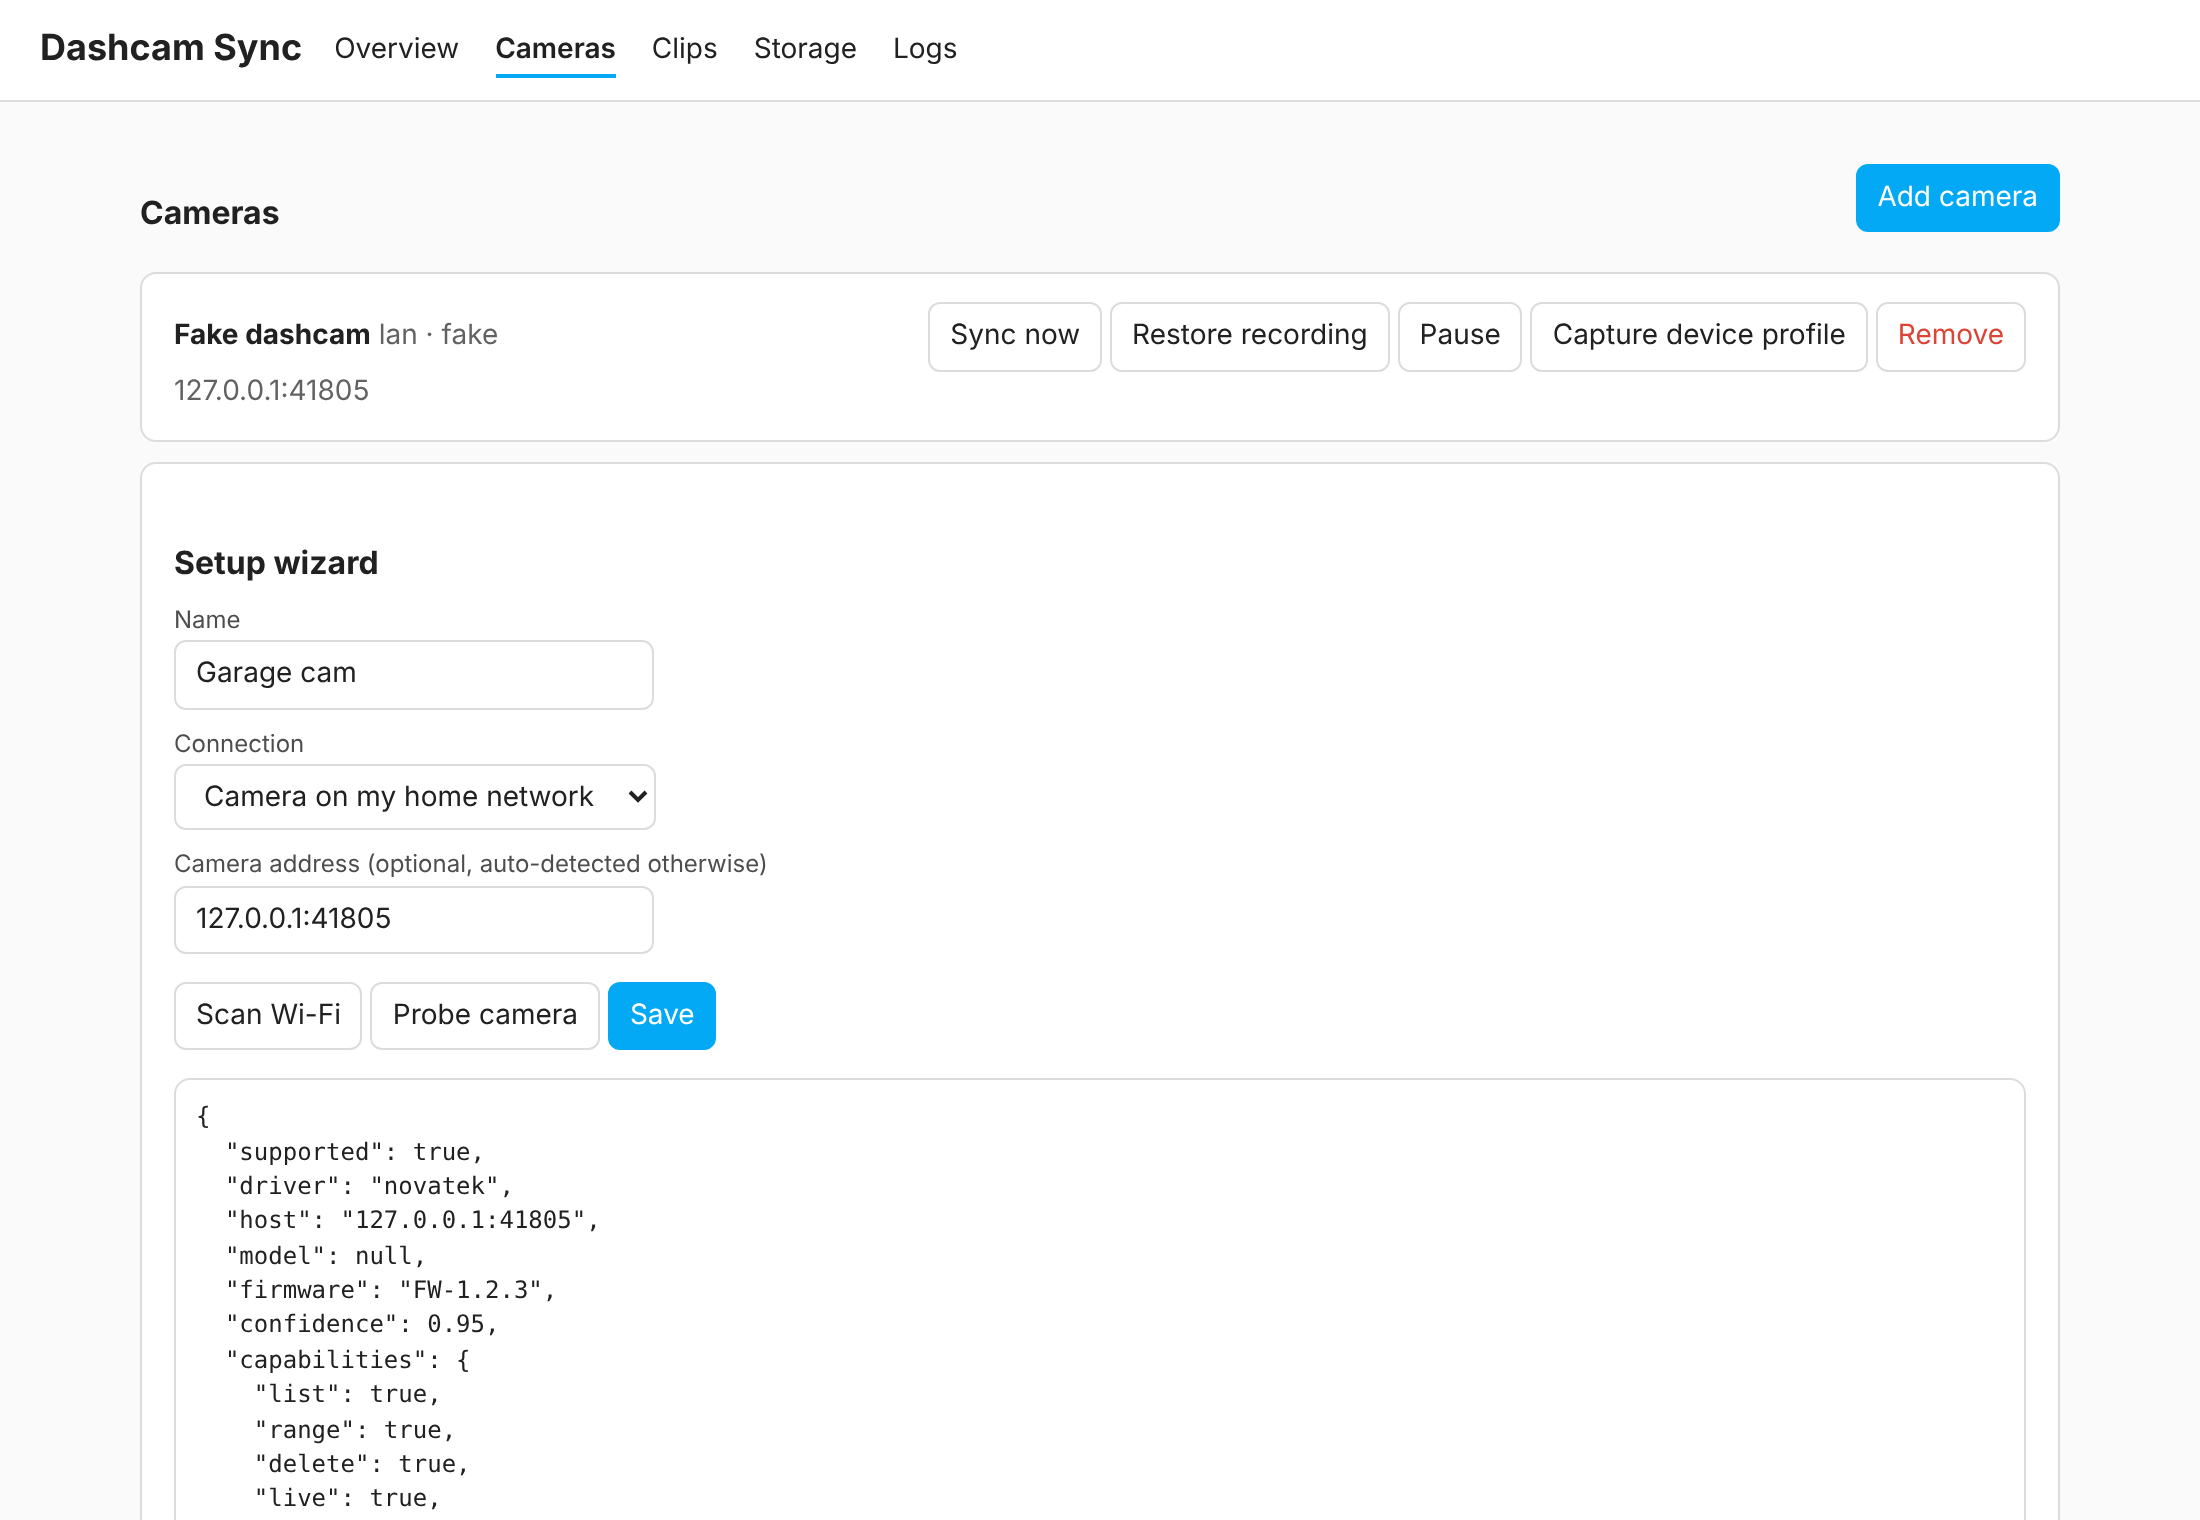
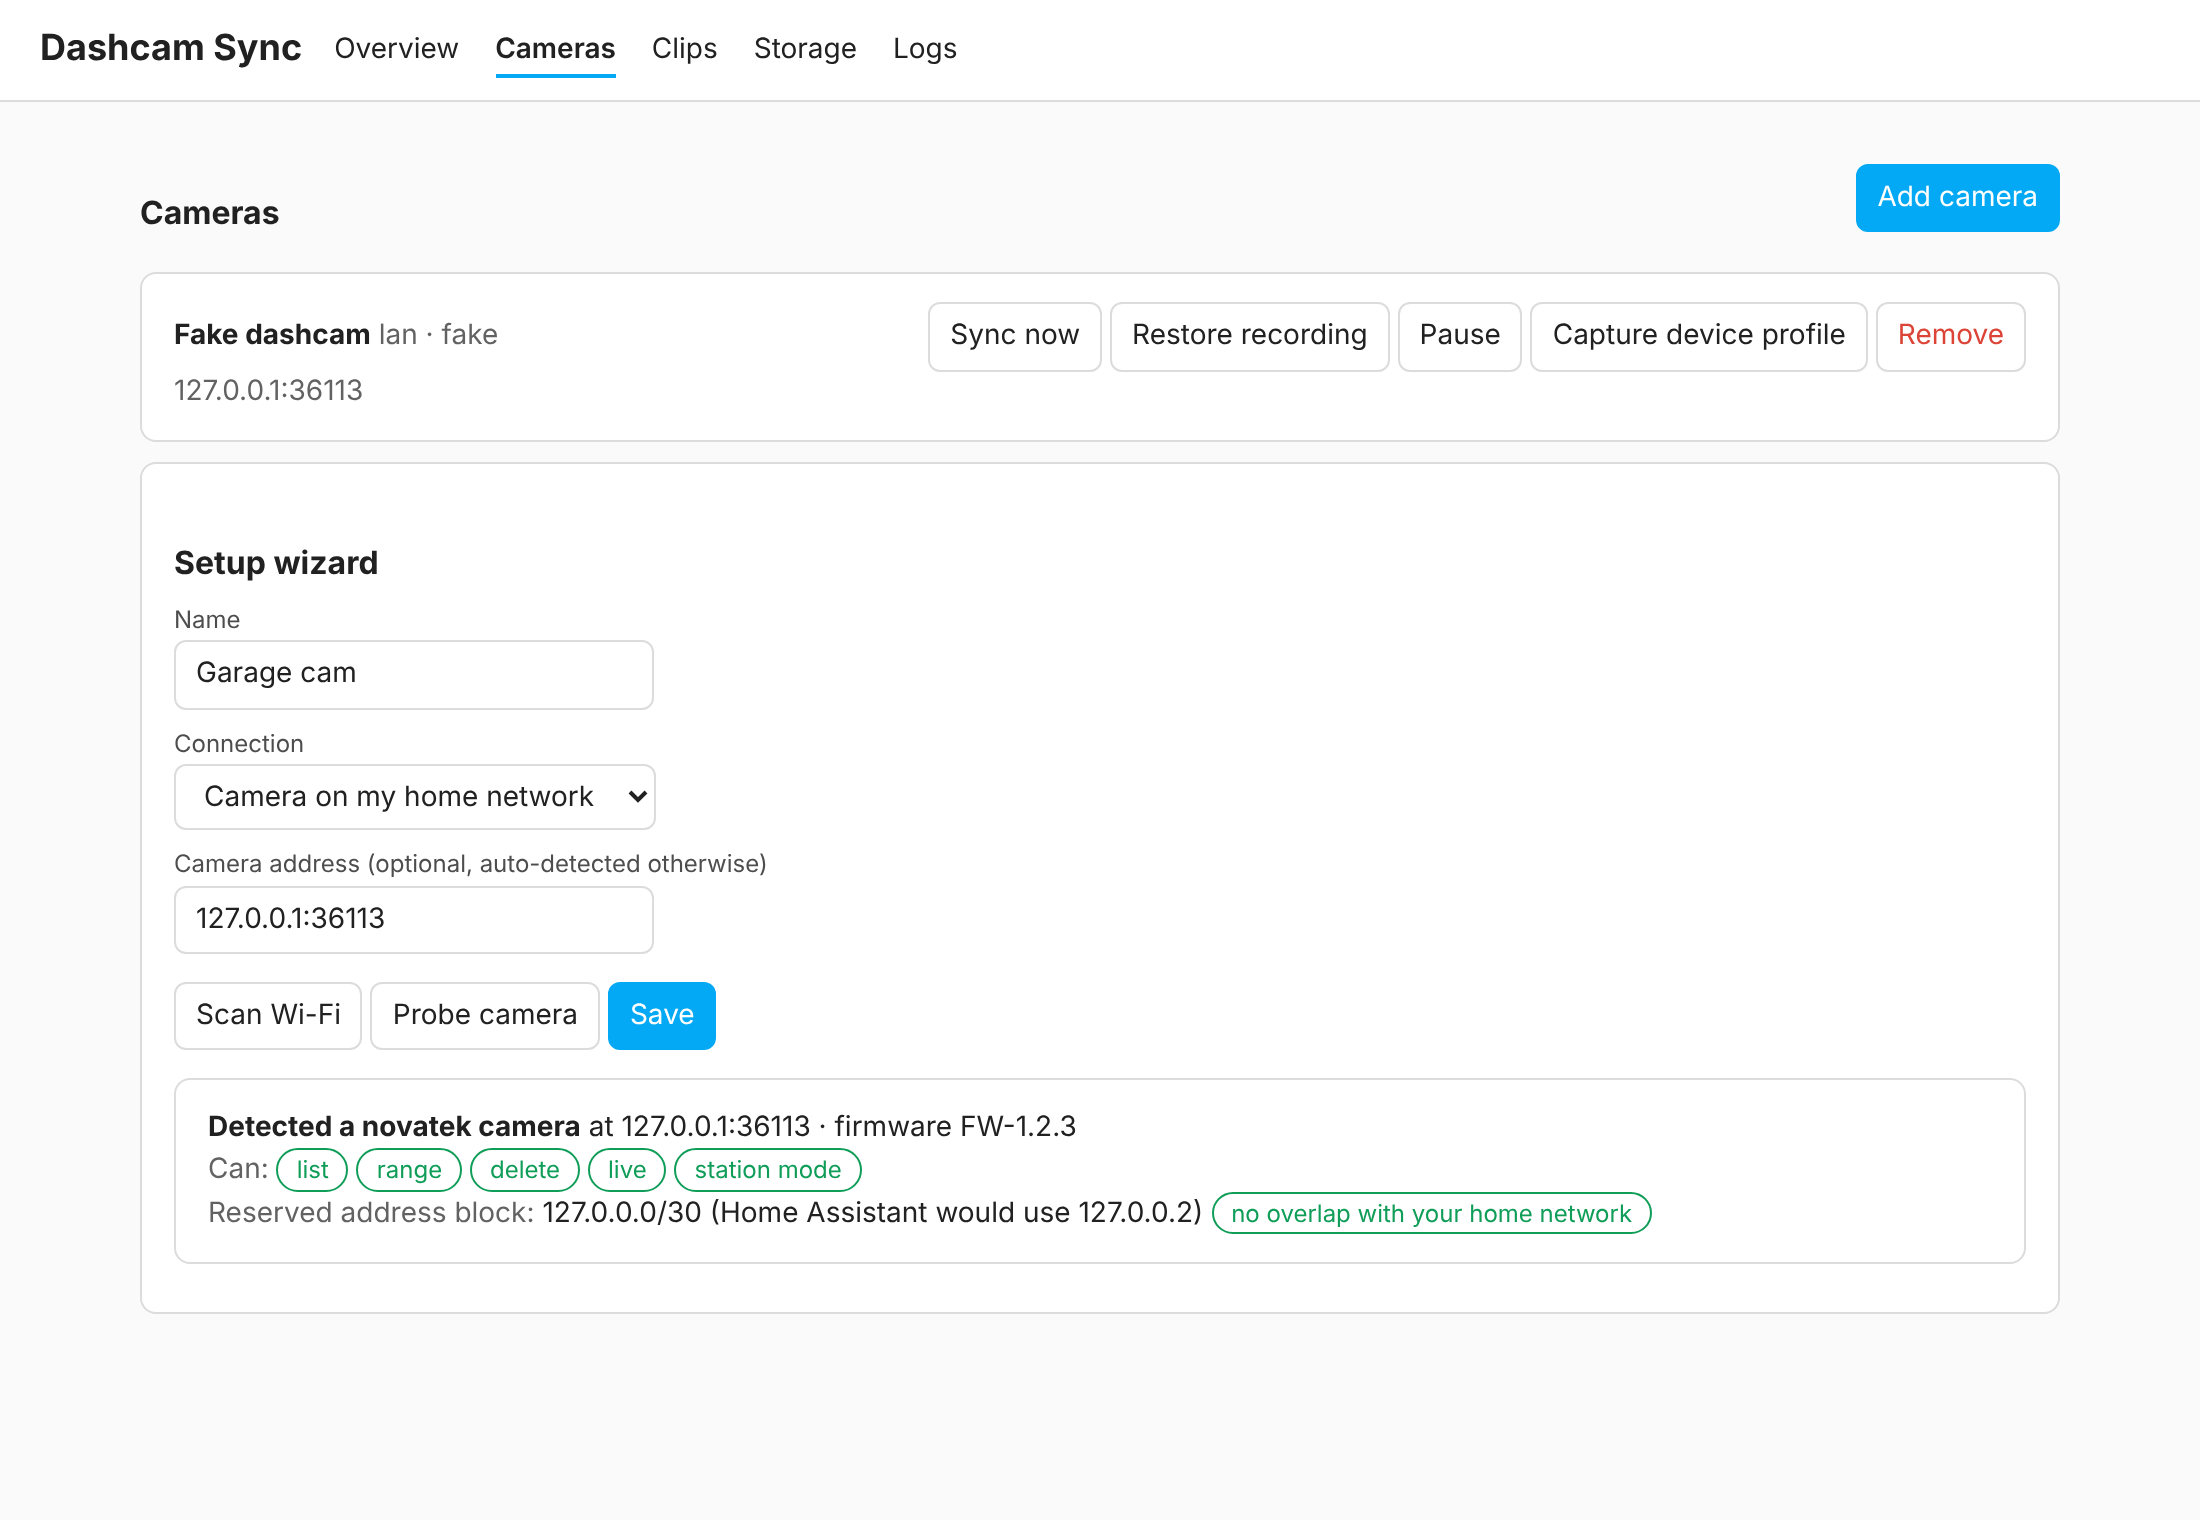
Readable wizard probe summary; fix the Trivy action reference
Claude-Session: https://claude.ai/code/session_018MPRNWVfXbs7G1pfVkGFFS

Changed region(s): [[0.0927, 0.7112, 0.7418, 0.9895], [0.1236, 0.5875, 0.1855, 0.6184], [0.1236, 0.2474, 0.1855, 0.2783]]

diff --git a/app/dashcam_sync/src/dashcam_sync/ui_static/app.js b/app/dashcam_sync/src/dashcam_sync/ui_static/app.js
@@ -130,8 +130,16 @@ function wizard() {
     </div>
     <label>Camera address (optional, auto-detected otherwise)</label><input id="w-host" placeholder="192.168.1.254">
     <p><button id="w-scan">Scan Wi-Fi</button> <button id="w-probe">Probe camera</button> <button id="w-save" class="primary">Save</button></p>
-    <pre id="w-out" hidden></pre></div>`;
+    <div id="w-out" class="card" hidden></div></div>`;
   const out = (v) => { const el = $("#w-out"); el.hidden = false; el.textContent = typeof v === "string" ? v : JSON.stringify(v, null, 2); };
+  const summary = (r, b) => {
+    const el = $("#w-out"); el.hidden = false;
+    const caps = Object.entries(r.capabilities || {}).filter(([, on]) => on).map(([k]) => `<span class="pill ok">${esc(k.replace("_", " "))}</span>`).join(" ");
+    el.innerHTML = `<b>Detected a ${esc(r.driver)} camera</b> at ${esc(r.host)}${r.firmware ? ` · firmware ${esc(r.firmware)}` : ""}${r.model ? ` · ${esc(r.model)}` : ""}<br>
+      <span class="muted">Can:</span> ${caps || "–"}<br>
+      <span class="muted">Reserved address block:</span> ${esc(b.block)} (Home Assistant would use ${esc(b.home_address)})
+      ${b.overlaps_home_network ? '<span class="pill warn">overlaps your home network: only these four addresses are claimed</span>' : '<span class="pill ok">no overlap with your home network</span>'}`;
+  };
   const conn = $("#w-conn");
   conn.onchange = () => { $("#w-hot").hidden = conn.value !== "hotspot"; };
   $("#w-scan").onclick = async () => {
@@ -148,7 +156,7 @@ function wizard() {
       if (!r.supported) return out("No driver recognised a camera. Join its Wi-Fi from Home Assistant first, or capture a device profile.");
       $("#w-host").value = r.host;
       const b = await api("wizard/block", { method: "POST", body: { camera_ip: r.host.split(":")[0] } });
-      out({ ...r, address_block: b.block, home_address: b.home_address, overlaps_home_network: b.overlaps_home_network });
+      summary(r, b);
     } catch (e) { out(e.message); }
   };
   $("#w-save").onclick = async () => {
